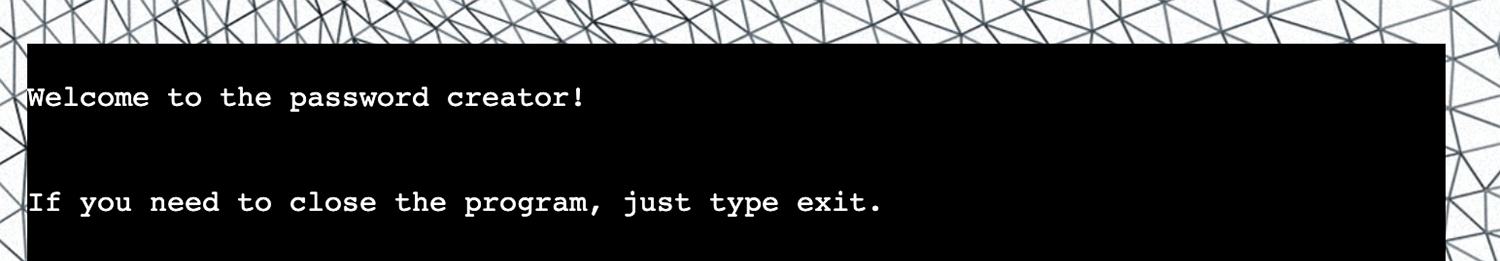
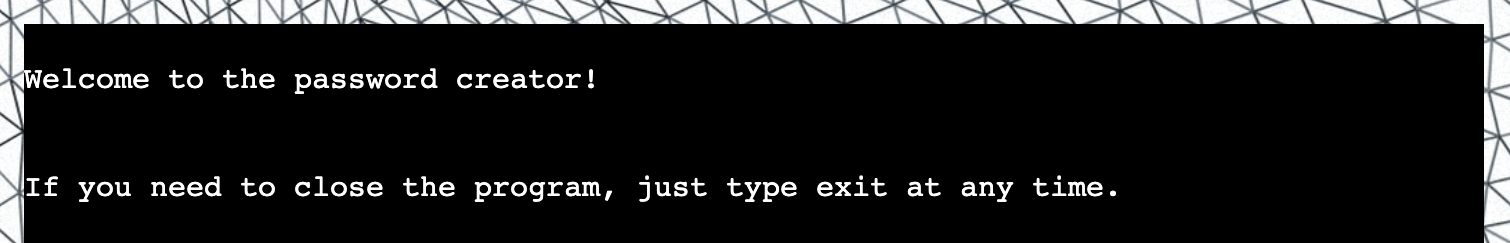
Update images for the exit interface

Changed region(s): [[0.0, 0.0, 1.0, 1.0]]

diff --git a/README.md b/README.md
@@ -601,7 +601,7 @@ To contribute or check the code yourself, you can fork or clone the repository a
 
 ### A list of references and tutorials used for the project:
 
-* [Password Generator Tutorial 1](https://www.geeksforgeeks.org/create-a-random-password-generator-using-python/)
+* [Password Generator Tutorial](https://www.geeksforgeeks.org/create-a-random-password-generator-using-python/)
 * [How to Create Random Strings](https://favtutor.com/blogs/create-random-string-password-python)
 * [Checking User's Input](https://pynative.com/python-check-user-input-is-number-or-string/#:~:text=Use%20string%20isdigit()%20method,number%2C%20it%20will%20not%20work.)
 * [Typing Effect](https://stackoverflow.com/questions/20302331/typing-effect-in-python)
